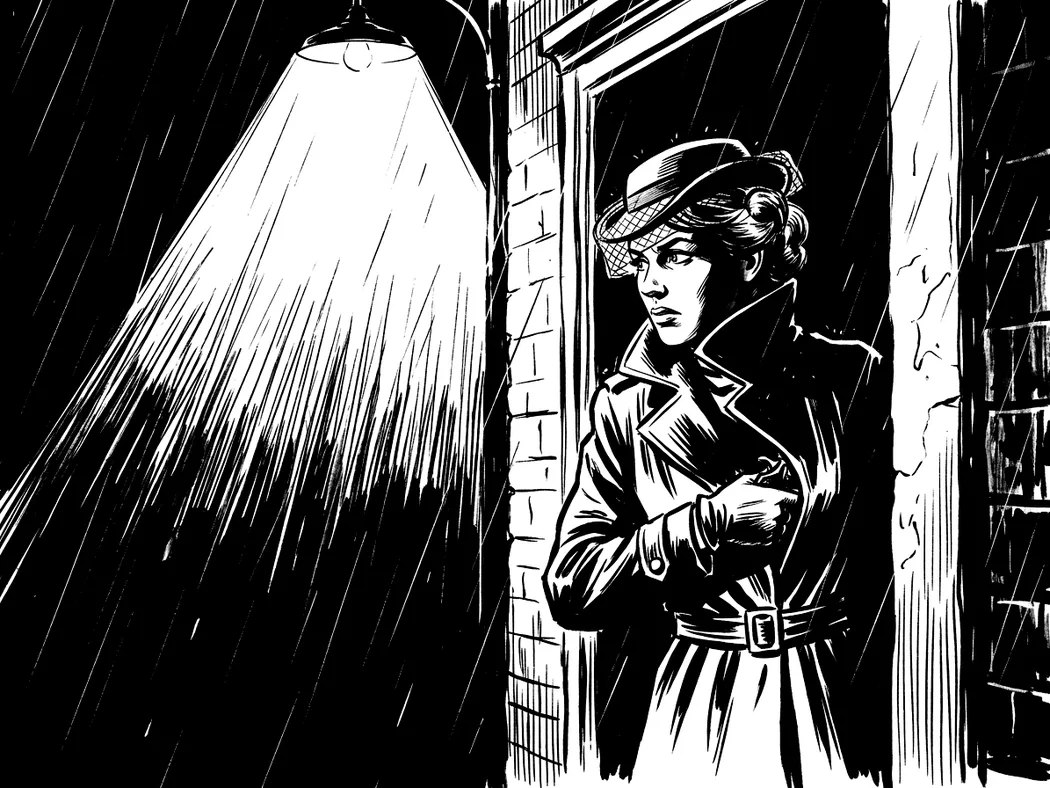
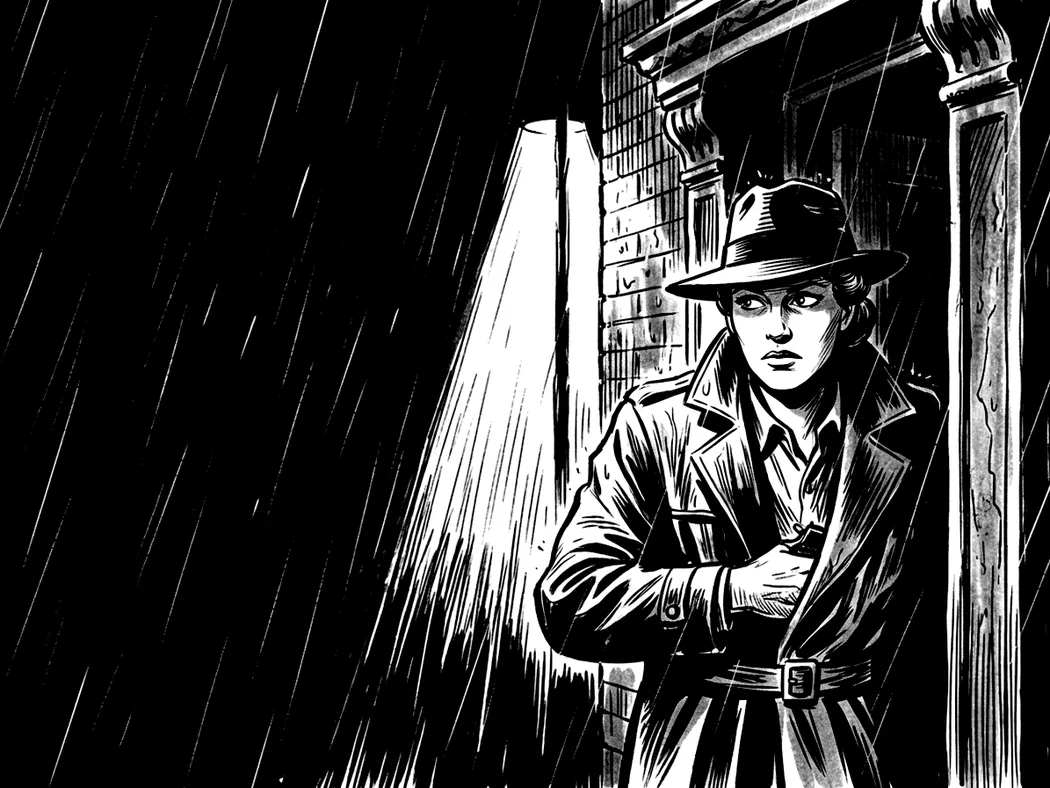
Livvaktens rollbild: kvinnan i fedora och i samma port som mannen (Jonas 2026-11-13)
Claude-Session: https://claude.ai/code/session_01X82C4AwGxTk3qPEhWtzhHp

diff --git a/src/scenes/sceneImages.js b/src/scenes/sceneImages.js
@@ -81,7 +81,7 @@ export const SCENE_IMAGES = /** @type {const} */ ({
   roleDetectiveWoman: { src: roleDetectiveWoman, alt: 'En kvinnlig detektiv i ljus trenchcoat och hatt antecknar i ett block i en regnig gränd.', position: '50% 30%' },
   roleDetectiveMan: { src: roleDetectiveMan, alt: 'En manlig detektiv i mörk trenchcoat och hatt antecknar i ett block i en regnig gränd.', position: '75% 30%' },
   roleDoctorWoman: { src: roleDoctorWoman, alt: 'En läkare i mörk kappa med stetoskop och läkarväska står i en upplyst dörröppning.', position: '100% 30%' },
-  roleBodyguardWoman: { src: roleBodyguardWoman, alt: 'En livvakt i trenchcoat och hatt med flor står i en mörk port i regnet, med handen innanför kappan, och spanar längs gatan.', position: '80% 30%' },
+  roleBodyguardWoman: { src: roleBodyguardWoman, alt: 'En livvakt i trenchcoat och fedora, med uppsatt hår, står i en mörk port i regnet med handen innanför kappan och spanar längs gatan.', position: '80% 30%' },
   roleBodyguardMan: { src: roleBodyguardMan, alt: 'En livvakt med mustasch, i trenchcoat och hatt, står i en mörk port i regnet med handen innanför rocken och spanar längs gatan.', position: '80% 30%' },
   roleDoctorMan: { src: roleDoctorMan, alt: 'En läkare med glasögon och mustasch, i mörk kappa med stetoskop och läkarväska, står i en upplyst dörröppning.', position: '100% 30%' },
   roleCitizenWoman: { src: roleCitizenWoman, alt: 'En kvinna i blommig klänning står i sin öppna ytterdörr och ser ut i mörkret med handen mot dörrkarmen.', position: '75% 30%' },
